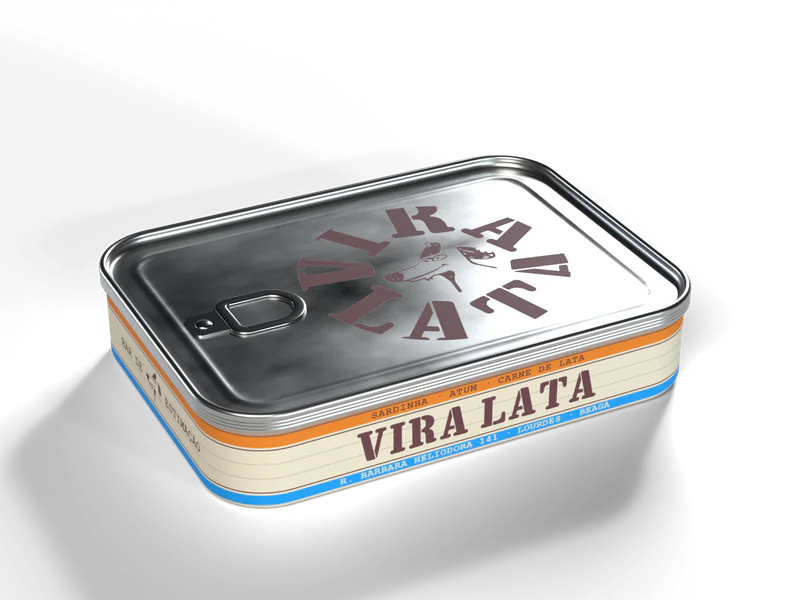
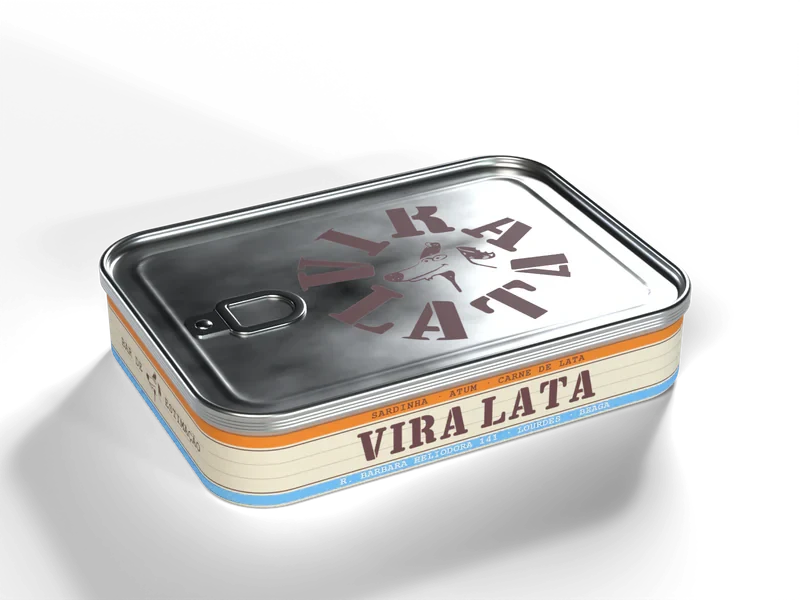
Botões que não somem no hover, azul mais leve e lata do celular fora do texto
- Hover: textos que seguem divididos (botões, títulos com farejar) ganham data-assentou quando a
  entrada termina; a animação de entrada sai do CSS e tirar o mouse não a reinicia mais
  (antes as letras do botão ficavam invisíveis por até 2 s)
- Azul da casa #00A4FE → #6CC2EE, mais leve e com contraste maior (texto 6,6:1, títulos 4,3:1);
  cintas e pôsteres da lata 3D recoloridos com scripts/azul-texturas.mjs
- Celular: a vaga da lata vem antes do título da prateleira, os cartões alinham pelo topo e a lata
  diminui; a lata não atravessa mais o texto e fica à vista junto dos cartões
- Status do cabeçalho cabe em 360 px

diff --git a/app/globals.css b/app/globals.css
@@ -12,7 +12,7 @@
   --marrom: #6e3f45; /* tinta da marca: selo, cachorro, títulos, palavras gigantes */
   --tinta: #4b262b; /* texto corrido, miúdo e fios: AA em todos os fundos da casa */
   --laranja: #f5881f;
-  --azul: #00a4fe;
+  --azul: #6cc2ee; /* azul da casa, clareado e menos saturado (era #00a4fe): mais leve aos olhos, contraste maior */
   --creme: #f5e9d1;
   --rosa: #f5bbb0;
   --metal: #cfcac0;
@@ -522,31 +522,31 @@ button {
     opacity: 0;
   }
 
-  .letras[data-in] .l {
+  .letras[data-in]:not([data-assentou]) .l {
     animation-duration: var(--dur);
     animation-timing-function: var(--curva);
     animation-fill-mode: backwards;
     animation-delay: calc(var(--d0, 0ms) + var(--i) * var(--passo));
   }
 
-  .letras[data-gesto='rolar'][data-in] .l {
+  .letras[data-gesto='rolar'][data-in]:not([data-assentou]) .l {
     animation-name: rolar;
   }
 
-  .letras[data-gesto='pular'][data-in] .l {
+  .letras[data-gesto='pular'][data-in]:not([data-assentou]) .l {
     animation-name: pular;
     transform-origin: 50% 100%;
   }
 
-  .letras[data-gesto='carimbar'][data-in] .l {
+  .letras[data-gesto='carimbar'][data-in]:not([data-assentou]) .l {
     animation-name: carimbar;
   }
 
-  .letras[data-gesto='datilografar'][data-in] .l {
+  .letras[data-gesto='datilografar'][data-in]:not([data-assentou]) .l {
     animation-name: datilografar;
   }
 
-  .letras[data-gesto='sacudir'][data-in] .l {
+  .letras[data-gesto='sacudir'][data-in]:not([data-assentou]) .l {
     animation-name: sacudir;
   }
 
@@ -555,7 +555,7 @@ button {
     opacity: 0;
   }
 
-  [data-abrir][data-aberta] .letras[data-gesto='sair'][data-in] .l {
+  [data-abrir][data-aberta] .letras[data-gesto='sair'][data-in]:not([data-assentou]) .l {
     animation-name: sair;
   }
 }
@@ -935,6 +935,15 @@ button {
 @media (max-width: 400px) {
   .marca-nome {
     display: none;
+  }
+
+  /* "Fechado · abre hoje às 18h" cabe em 360 px ao lado do selo */
+  .cabecalho .status {
+    min-width: 0;
+    padding: 0 var(--e2);
+    letter-spacing: 0.04em;
+    overflow: hidden;
+    text-overflow: ellipsis;
   }
 }
 
@@ -1696,8 +1705,26 @@ html.js .prateleira[data-imersiva] :is(.prateleira-trilho, .prateleira-fundo, .p
     order: 0;
   }
 
+  /* Numa coluna, a vaga da lata vem antes do título: a lata 3D desce da seção anterior e pousa no topo
+     do cartão que sobe, sem atravessar o texto (com a vaga embaixo, o texto cruzava a lata no trajeto). */
+  .prateleira-cabeca .lata-vaga {
+    order: -1;
+  }
+
+  /* Na faixa de arrastar, os cartões alinham pelo topo (centrados no "Acompanha" sobrava um vão de 128 px) */
+  .prateleira:not([data-imersiva]) .prateleira-trilho {
+    align-items: flex-start;
+  }
+
   .rotulo {
     width: min(78vw, 360px);
+  }
+}
+
+@media (max-width: 720px) {
+  /* Lata, título e cartões cabem juntos numa tela de celular: a lata 3D segue à vista enquanto se arrasta */
+  .prateleira .lata-vaga {
+    width: min(76%, 320px);
   }
 }
 

diff --git a/components/Interacoes.tsx b/components/Interacoes.tsx
@@ -58,16 +58,22 @@ function junta(el: HTMLElement) {
   el.querySelector(':scope > .sr')?.remove();
 }
 
-/** Junta quando a última letra assenta (ou num prazo de segurança). `abanar` e `farejar` ficam divididos. */
+/**
+ * Junta quando a última letra assenta (ou num prazo de segurança). `abanar` e `farejar` ficam divididos
+ * (precisam das letras no hover) e ganham `data-assentou`: a animação de entrada sai do CSS e o fim do hover
+ * não a reinicia (antes as letras do botão sumiam por até 2 s ao tirar o mouse).
+ */
 function agendaJunta(el: HTMLElement) {
-  if (el.dataset.junto !== undefined || el.hasAttribute('data-farejar') || el.closest('.abanar')) return;
+  if (el.dataset.junto !== undefined || el.hasAttribute('data-assentou')) return;
+  const fica = el.hasAttribute('data-farejar') || !!el.closest('.abanar');
   const letras = el.querySelectorAll('.l').length;
   if (!letras) return;
   let restantes = letras;
   const fim = () => {
     el.removeEventListener('animationend', aoFim);
     window.clearTimeout(prazo);
-    junta(el);
+    if (fica) el.setAttribute('data-assentou', '');
+    else junta(el);
   };
   const aoFim = (e: AnimationEvent) => {
     if ((e.target as HTMLElement).classList.contains('l') && --restantes <= 0) fim();
@@ -177,6 +183,7 @@ export function Interacoes() {
       const latas = caso.querySelectorAll<HTMLElement>('[data-abrir]');
       gestos.forEach((el) => {
         el.removeAttribute('data-in');
+        el.removeAttribute('data-assentou');
         if (!reduz.matches) {
           junta(el);
           divide(el);

diff --git a/app/layout.tsx b/app/layout.tsx
@@ -43,7 +43,7 @@ export const metadata: Metadata = {
 };
 
 export const viewport: Viewport = {
-  themeColor: '#00a4fe',
+  themeColor: '#6cc2ee',
   width: 'device-width',
   initialScale: 1,
 };
